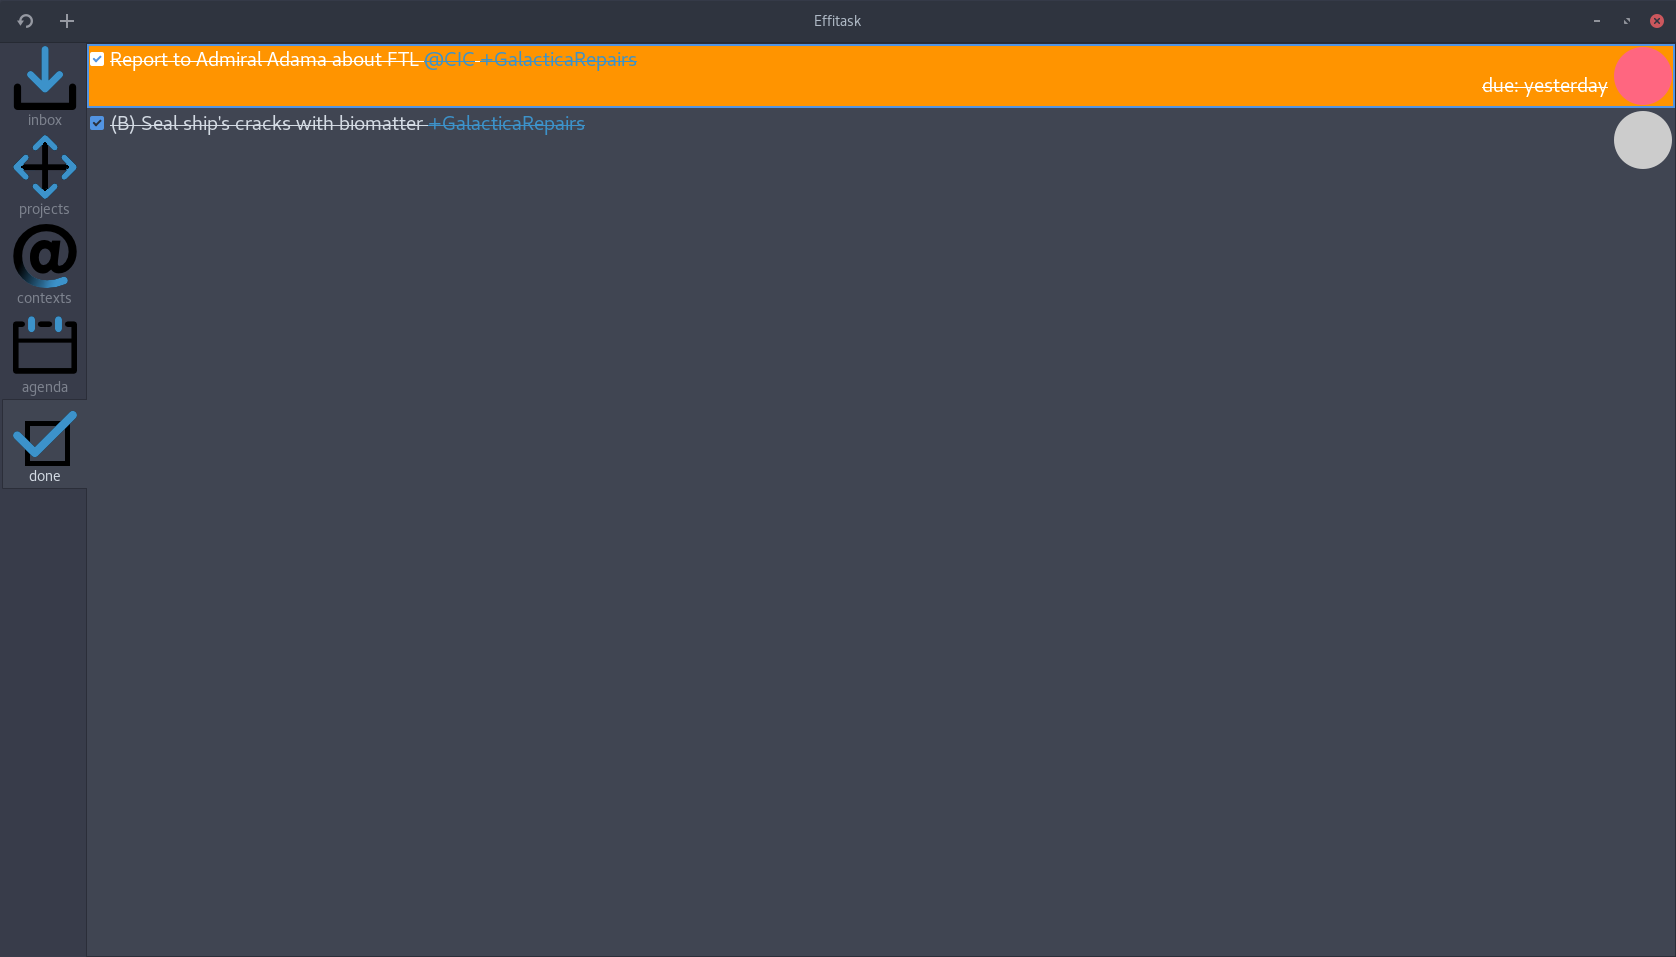
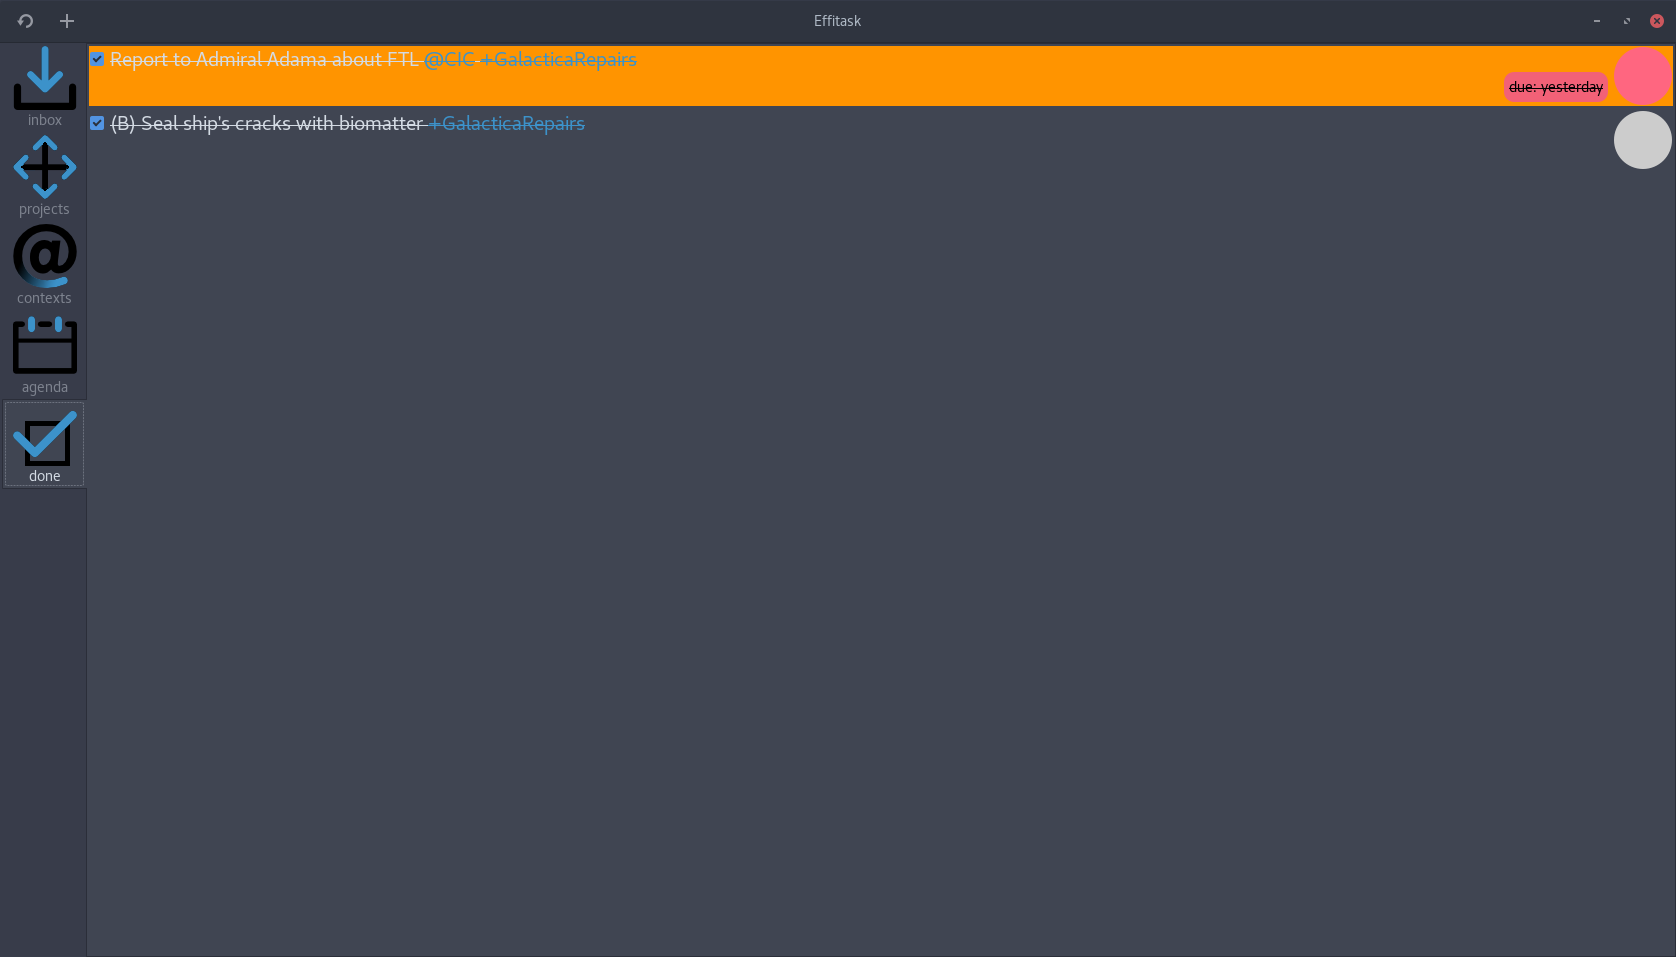
Add color for due date

Changed region(s): [[0.031, 0.0303, 0.2482, 0.0909], [0.8687, 0.0606, 0.9618, 0.1212], [0.9928, 0.0303, 1.0, 0.1212]]

diff --git a/resources/style.css b/resources/style.css
@@ -22,3 +22,15 @@ treeview, .task {
 .finished label {
     text-decoration: line-through;
 }
+
+.due {
+    font-size: 15px;
+    background-color: #FFC933;
+    color: black;
+    padding: 5px;
+    border-radius: 10px;
+}
+
+.due.past {
+    background-color: #F26177;
+}

diff --git a/src/widgets/task.rs b/src/widgets/task.rs
@@ -62,14 +62,21 @@ impl ::relm::Widget for Task
         }
 
         if let Some(due) = task.due_date {
+            use gtk::StyleContextExt;
+
+            let context = self.date_label.get_style_context()
+                .unwrap();
             let today = ::chrono::Local::now()
                 .date()
                 .naive_local();
+
+            context.add_class("due");
 
             let date = if due == today {
                 String::from("today")
             }
             else if due == today.pred() {
+                context.add_class("past");
                 String::from("yesterday")
             }
             else if due == today.succ() {
